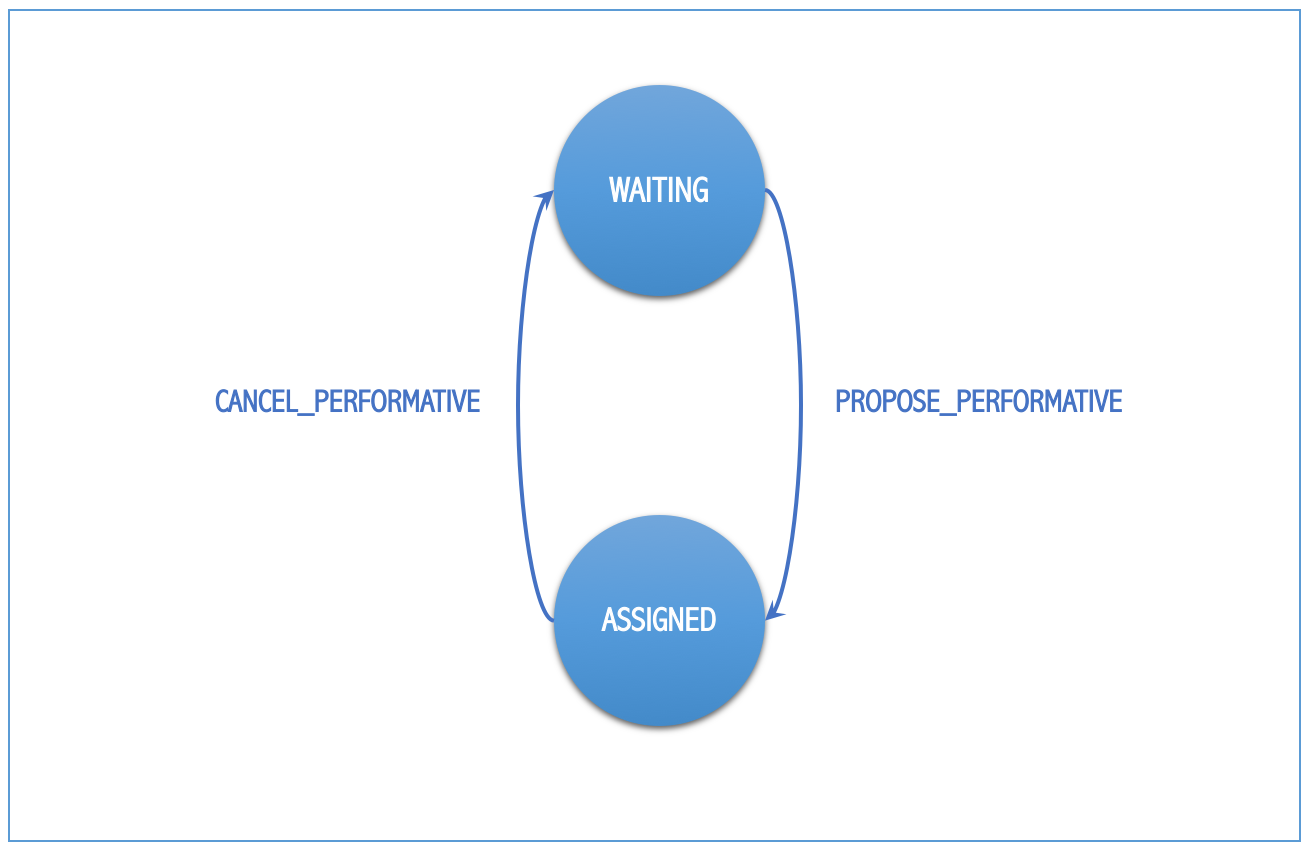
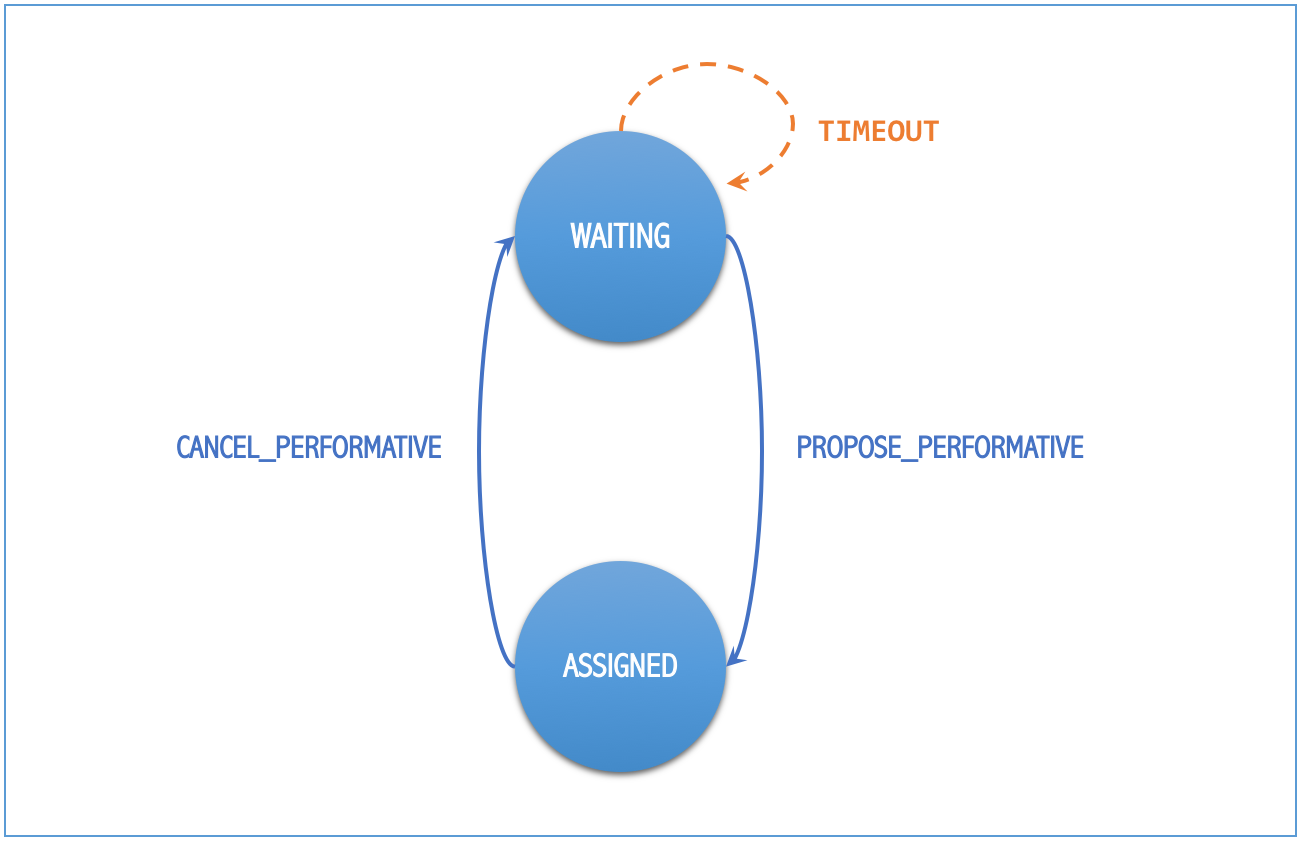
Merge branch 'develop' of https://github.com/javipalanca/taxi_simulator into develop
# Conflicts:
#	taxi_simulator/strategies.py

diff --git a/docs/develop.rst b/docs/develop.rst
@@ -84,16 +84,16 @@ now described.
 Strategy Behaviour (`AcceptAlwaysStrategyBehaviour`)
 ~~~~~~~~~~~~~~~~~~~~~~~~~~~~~~~~~~~~~~~~~~~~~~~~~~~~
 
-The goal of the strategy behavior of a Taxi agent is to negotiate with Passenger agents requesting a taxi service
+The goal of the strategy behavior of a Taxi agent is to negotiate with Passenger agents which are requesting a taxi service
 the conditions of the service offered by the Taxi, in order to achieve an agreement with these Passenger agents.
 When an agreement is reached between a particular Passenger and Taxi agents, then the Taxi agent picks up the
-Passenger agent and transport it to its destination (see Moving Behavior below).
+Passenger agent and transport it to its destination (and starts the Moving Behavior, described below).
 
 The currently implemented, default strategy behavior is called `AcceptAlwaysStrategyBehaviour`, and has a direct
 relation with the `REQUEST` protocol explained above. In particular, the behavior can be thought of as a finite-state
 machine with some different states specifying the statuses of the Taxi agent regarding the strategy behavior, and
-some transitions between states, wich are triggered by messages (of the `REQUEST` protocol) received by the Taxi agent
-or by some other program conditions. This is depicted in the following diagram:
+some transitions between states, wich are triggered either by messages (of the `REQUEST` protocol) received by the
+Taxi agent, or by some other program conditions. This is depicted in the following diagram:
 
 .. figure:: Taxi_FSM.png
    :scale: 40 %
@@ -120,7 +120,8 @@ The semantics of each state are now described:
   service, and then the Taxi agent starts to travel to the Passenger location in order to pick it up. This is
   the final state of the negotiation between the Taxi and a certain Passenger agent. In this state, the Taxi agent
   executes the helper function `pick_up_passenger`, which automatically starts the so-called Moving Behavior
-  in the Taxi agent, described below.
+  in the Taxi agent, described below. It also sends a message to the Travel Behavior of the Passenger agent, which
+  starts that behavior (this is explained in the next section).
 
 
 Moving Behaviour
@@ -133,7 +134,7 @@ Once in the Passenger agent's destination, the Passenger agent is informed, and 
 is again changed to `TAXI_WAITING`, indicating that it is now free again, and it may start receiving new requests
 from other Passenger agents.
 
-This behavior is internal and automatic, and it is not intended to be modified while developing
+WARNING: This behavior is internal and automatic, and it is not intended to be modified while developing
 new negotiation strategies.
 
 
@@ -141,8 +142,26 @@ new negotiation strategies.
 Description of the Passenger Agents
 -----------------------------------
 
+The Passenger agents represent people that need to go from one location of the city (their "current location") to
+another (their "destination"), and for doing so, they request a taxi service. Each Passenger agent requires a single
+taxi service and so, once transported to its destination, it reaches its final state and ends its execution. During
+that execution, Passenger agents incorporate two behaviors: the strategy behavior and the travel behavior, now described.
+
+
 Strategy Behaviour
 ~~~~~~~~~~~~~~~~~~
+
+In the course of the `REQUEST` protocol, the request of a taxi service made by a Passenger agent is answered
+by one (or several) Taxi agents, each of which offering the Passenger their conditions to perform such service.
+The goal of the strategy behavior of a Passenger agent is to select the best of these taxi service proposals,
+according to its needs or preferences (e.g., to be picked up faster, to get the nearest available taxi,
+to get the cheapest service, etc.).
+
+
+The currently implemented, default strategy behavior is called `AcceptFirstRequestTaxiBehaviour`. As in the
+strategy behavior of the Taxi agents above, here we can also consider the strategy as a finite-state machine related to
+the messages (of the `REQUEST` protocol) received by the Passenger agent, as depicted below:
+
 
 .. figure:: Passenger_FSM.png
    :scale: 40 %
@@ -150,18 +169,65 @@ Strategy Behaviour
 
    States and transitions of the strategy behavior of a Passenger agent.
 
+The semantics of each state are now described:
+
+* `PASSENGER_WAITING`: In this state, the Passenger agent requires a taxi service and, periodically, sends a
+  request for that service until one (or many) Taxi agent proposals (`PROPOSE_PERFORMATIVE`) are received.
+  When the Passenger accepts a particular proposal (in the current implementation, always the first one it
+  receives while in this state) then it communicates so to the proposing Taxi agent, and changes its own status
+  to `PASSENGER_ASSIGNED`.
 
 
-Which are its goals. What it does. Possible states and semantics of each state.
+* `PASSENGER_ASSIGNED`: In this state, the Passenger agent has been assigned to a particular taxi, and the taxi service
+  is being produced. The Passenger side of the taxi service is implemented by activating the Travel Behavior, described
+  below, which is started by a message sent by the Taxi agent (in its helper function `pick_up_passenger`).
+  If something goes wrong (for example, an exception is raised during the taxi service) or the Taxi agent voluntarily
+  wants to cancel the service, then the Taxi agent sends a `CANCEL_PERFORMATIVE` to the Passenger agent, which
+  would then change its status back to `PASSENGER_WAITING`, initiating the request process again.
+
+
 
 Travel Behaviour
 ~~~~~~~~~~~~~~~~
 Goals, Actions, States.
 
 
-How agents interact in the default strategies
----------------------------------------------
-Description (and image) of Request Protocol (how some messages change agents' status)
+
+
+
+
+
+The Negotiation Process between Taxi and Passenger Agents
+---------------------------------------------------------
+
+After separately explaining the strategy behavior of Taxi and Passenger agents, this section tries to relate both behaviors.
+This is important to understand how these two agent types interact with each other in order to coordinate and reach the overall
+goals of the simulation.
+
+In particular, there are three key aspects (embedded within the strategy behaviors) which influence the overall
+coordination process implemented in the simulator, as now described:
+
+* The conditions of a taxi service proposal. The current implementation does not consider any special condition other
+than the Taxi agent being free (available to perform the service). Some aspects that could be included in a taxi proposal
+would be, for example, the current location of the taxi, the proposed fare, the route to take the Passenger agent to its
+destination, etc.
+
+* The preferences of passengers in order to select a particular taxi proposal. In the current implementation, the
+Passenger agents always accept the first proposal received from a Taxi agent. In a more sophisticated negotiation,
+some internal goals/conditions of the Passenger agent could be taken into account in order to select a "better" proposal.
+These might include, for example, the expected waiting time until the Taxi agent arrives, the amount of money that
+the service is expected to cost, the brand of the Taxi vehicle, etc.
+
+* The possibility of a taxi to voluntarily cancel an ongoing taxi service after a proposal has been accepted by a passenger.
+This may happen only before the pasenger has been picked up, that is, while the taxi is moving from its initial position
+to the location where the passenger is waiting for it. In the current implementation, a taxi service cancellation can
+only be produced if some exception is raised while the service is being produced (for example, if the software calculating
+a route for the Taxi agent fails to produce a valid route). Since new Passenger (and maybe Taxi) agents can appear at
+any time while the simulation is running, a voluntary cancellation of taxi services could improve the overall
+transportation of passengers throughout the simulation, allowing for a "dynamic reallocation" of passengers
+to taxis, even when taxi services where already committed.
+
+
 
 
 
